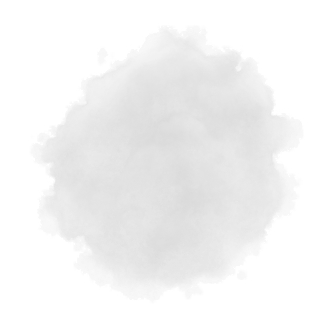
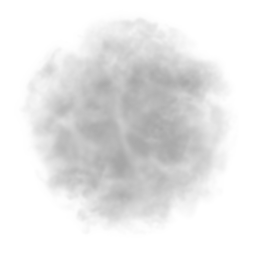
system done

diff --git a/Engine/Source/ParticleSystem/ParticleEmitter.cpp b/Engine/Source/ParticleSystem/ParticleEmitter.cpp
@@ -8,9 +8,9 @@ ParticleEmitter::ParticleEmitter()
 	m_EmitterCurrentLife = 0;
 	m_EmitterLife = 0;
 	m_RotationMinMax = DirectX::XMINT2{1, 360};
-	m_MaxParticle = 50;
+	m_MaxParticle = 100;
 	m_MinParticle = 3;
-	nrOfEmittedParticles = 40;
+	nrOfEmittedParticles = 100;
 	m_Speed = 0.2f;
 	m_SpawnPosition = DirectX::XMVECTOR{0,0,0};
 	scaleOverTime = DirectX::XMFLOAT2{ 0.45f, 0.45f };
@@ -20,7 +20,32 @@ ParticleEmitter::ParticleEmitter()
 	minMaxLife = DirectX::XMINT2{ 0, 1 };
 	spawnSpread = DirectX::XMINT2{ 0, 0 };
 
-	//setSmoke();
+	_CreateBoundingBox();
+	InitializeBuffer();
+}
+
+ParticleEmitter::ParticleEmitter(int type)
+{
+	isSmoke = false;
+	emitterActiv = 1;
+	m_EmitterCurrentLife = 0;
+	m_EmitterLife = 0;
+	m_RotationMinMax = DirectX::XMINT2{ 1, 360 };
+	m_MaxParticle = 100;
+	m_MinParticle = 3;
+	nrOfEmittedParticles = 100;
+	m_Speed = 0.2f;
+	m_SpawnPosition = DirectX::XMVECTOR{ 0,0,0 };
+	scaleOverTime = DirectX::XMFLOAT2{ 0.45f, 0.45f };
+	scale = DirectX::XMFLOAT2(0.2f, 0.2f);
+	spreadMinMax = DirectX::XMINT2{ -2, 4 };
+	directionMinMax = DirectX::XMINT2{ 4, 10 };
+	minMaxLife = DirectX::XMINT2{ 0, 1 };
+	spawnSpread = DirectX::XMINT2{ 0, 0 };
+
+	if (type == 1)
+		setSmoke();
+
 	_CreateBoundingBox();
 	InitializeBuffer();
 }
@@ -37,8 +62,8 @@ void ParticleEmitter::setSmoke()
 	m_SpawnPosition = DirectX::XMVECTOR{ 0,0,0 };
 	scaleOverTime = DirectX::XMFLOAT2{ -0.5f, -0.5f };
 	scale = DirectX::XMFLOAT2(0.2f, 0.2f);
-	spreadMinMax = DirectX::XMINT2{ -20, 20 };
-	directionMinMax = DirectX::XMINT2{ -20, 20 };
+	spreadMinMax = DirectX::XMINT2{ -10, 20 };
+	directionMinMax = DirectX::XMINT2{ -10, 20 };
 	minMaxLife = DirectX::XMINT2{ 2, 4 };
 	spawnSpread = DirectX::XMINT2{ -1, 2 };
 

diff --git a/Engine/Source/ParticleSystem/ParticleSystem.cpp b/Engine/Source/ParticleSystem/ParticleSystem.cpp
@@ -10,15 +10,16 @@ ParticleSystem::ParticleSystem()
 
 ParticleSystem::~ParticleSystem()
 {
+	for (int i = 0; i < nrOfEmitters; i++)
+	{
+		m_ParticleEmitter[i]->Clear();
+	}
+	
 	for (auto& emitter : m_ParticleEmitter)
 	{
 		delete emitter;
 	}
 	
-	for (int i = 0; i < nrOfEmitters; i++)
-	{
-		m_ParticleEmitter[i]->Clear();
-	}
 }
 
 void ParticleSystem::Queue()
@@ -39,7 +40,7 @@ void ParticleSystem::Update(float timeDelata, Camera * camera)
 
 ParticleEmitter *ParticleSystem::CreateEmitter(DirectX::XMFLOAT3 spawnPos, typeOfEmitter type, float lifeTime)
 {
-	ParticleEmitter * newEmitter = new ParticleEmitter;
+	ParticleEmitter * newEmitter = new ParticleEmitter(type);
 	newEmitter->setPosition(spawnPos.x, spawnPos.y, spawnPos.z);
 	newEmitter->type = type;
 	newEmitter->setEmmiterLife(lifeTime);

diff --git a/Engine/Source/ParticleSystem/ParticleEmitter.h b/Engine/Source/ParticleSystem/ParticleEmitter.h
@@ -66,6 +66,7 @@ private:
 
 public:
 	ParticleEmitter();
+	ParticleEmitter(int type);
 	~ParticleEmitter();
 	void Update(float timeDelata, Camera * camera);
 	float RandomFloat(DirectX::XMINT2 min_max);
@@ -89,7 +90,7 @@ public:
 	DirectX::XMINT2 minMaxLife;
 	DirectX::XMINT2 spawnSpread;
 	bool isSmoke;
-	int type = 0;//FIRE = 0 SMOKE = 1
+	int type;//FIRE = 0 SMOKE = 1
 
 	void releaseVertexBuffer(); 
 

diff --git a/Engine/Source/ParticleSystem/ParticleSystem.h b/Engine/Source/ParticleSystem/ParticleSystem.h
@@ -16,7 +16,7 @@ public:
 
 	int nrOfEmitters;
 	enum typeOfEmitter { FIRE, SMOKE };
-	typeOfEmitter type = FIRE;
+	typeOfEmitter type;
 
 	std::vector<ParticleEmitter*> m_ParticleEmitter;
 	void Queue();
